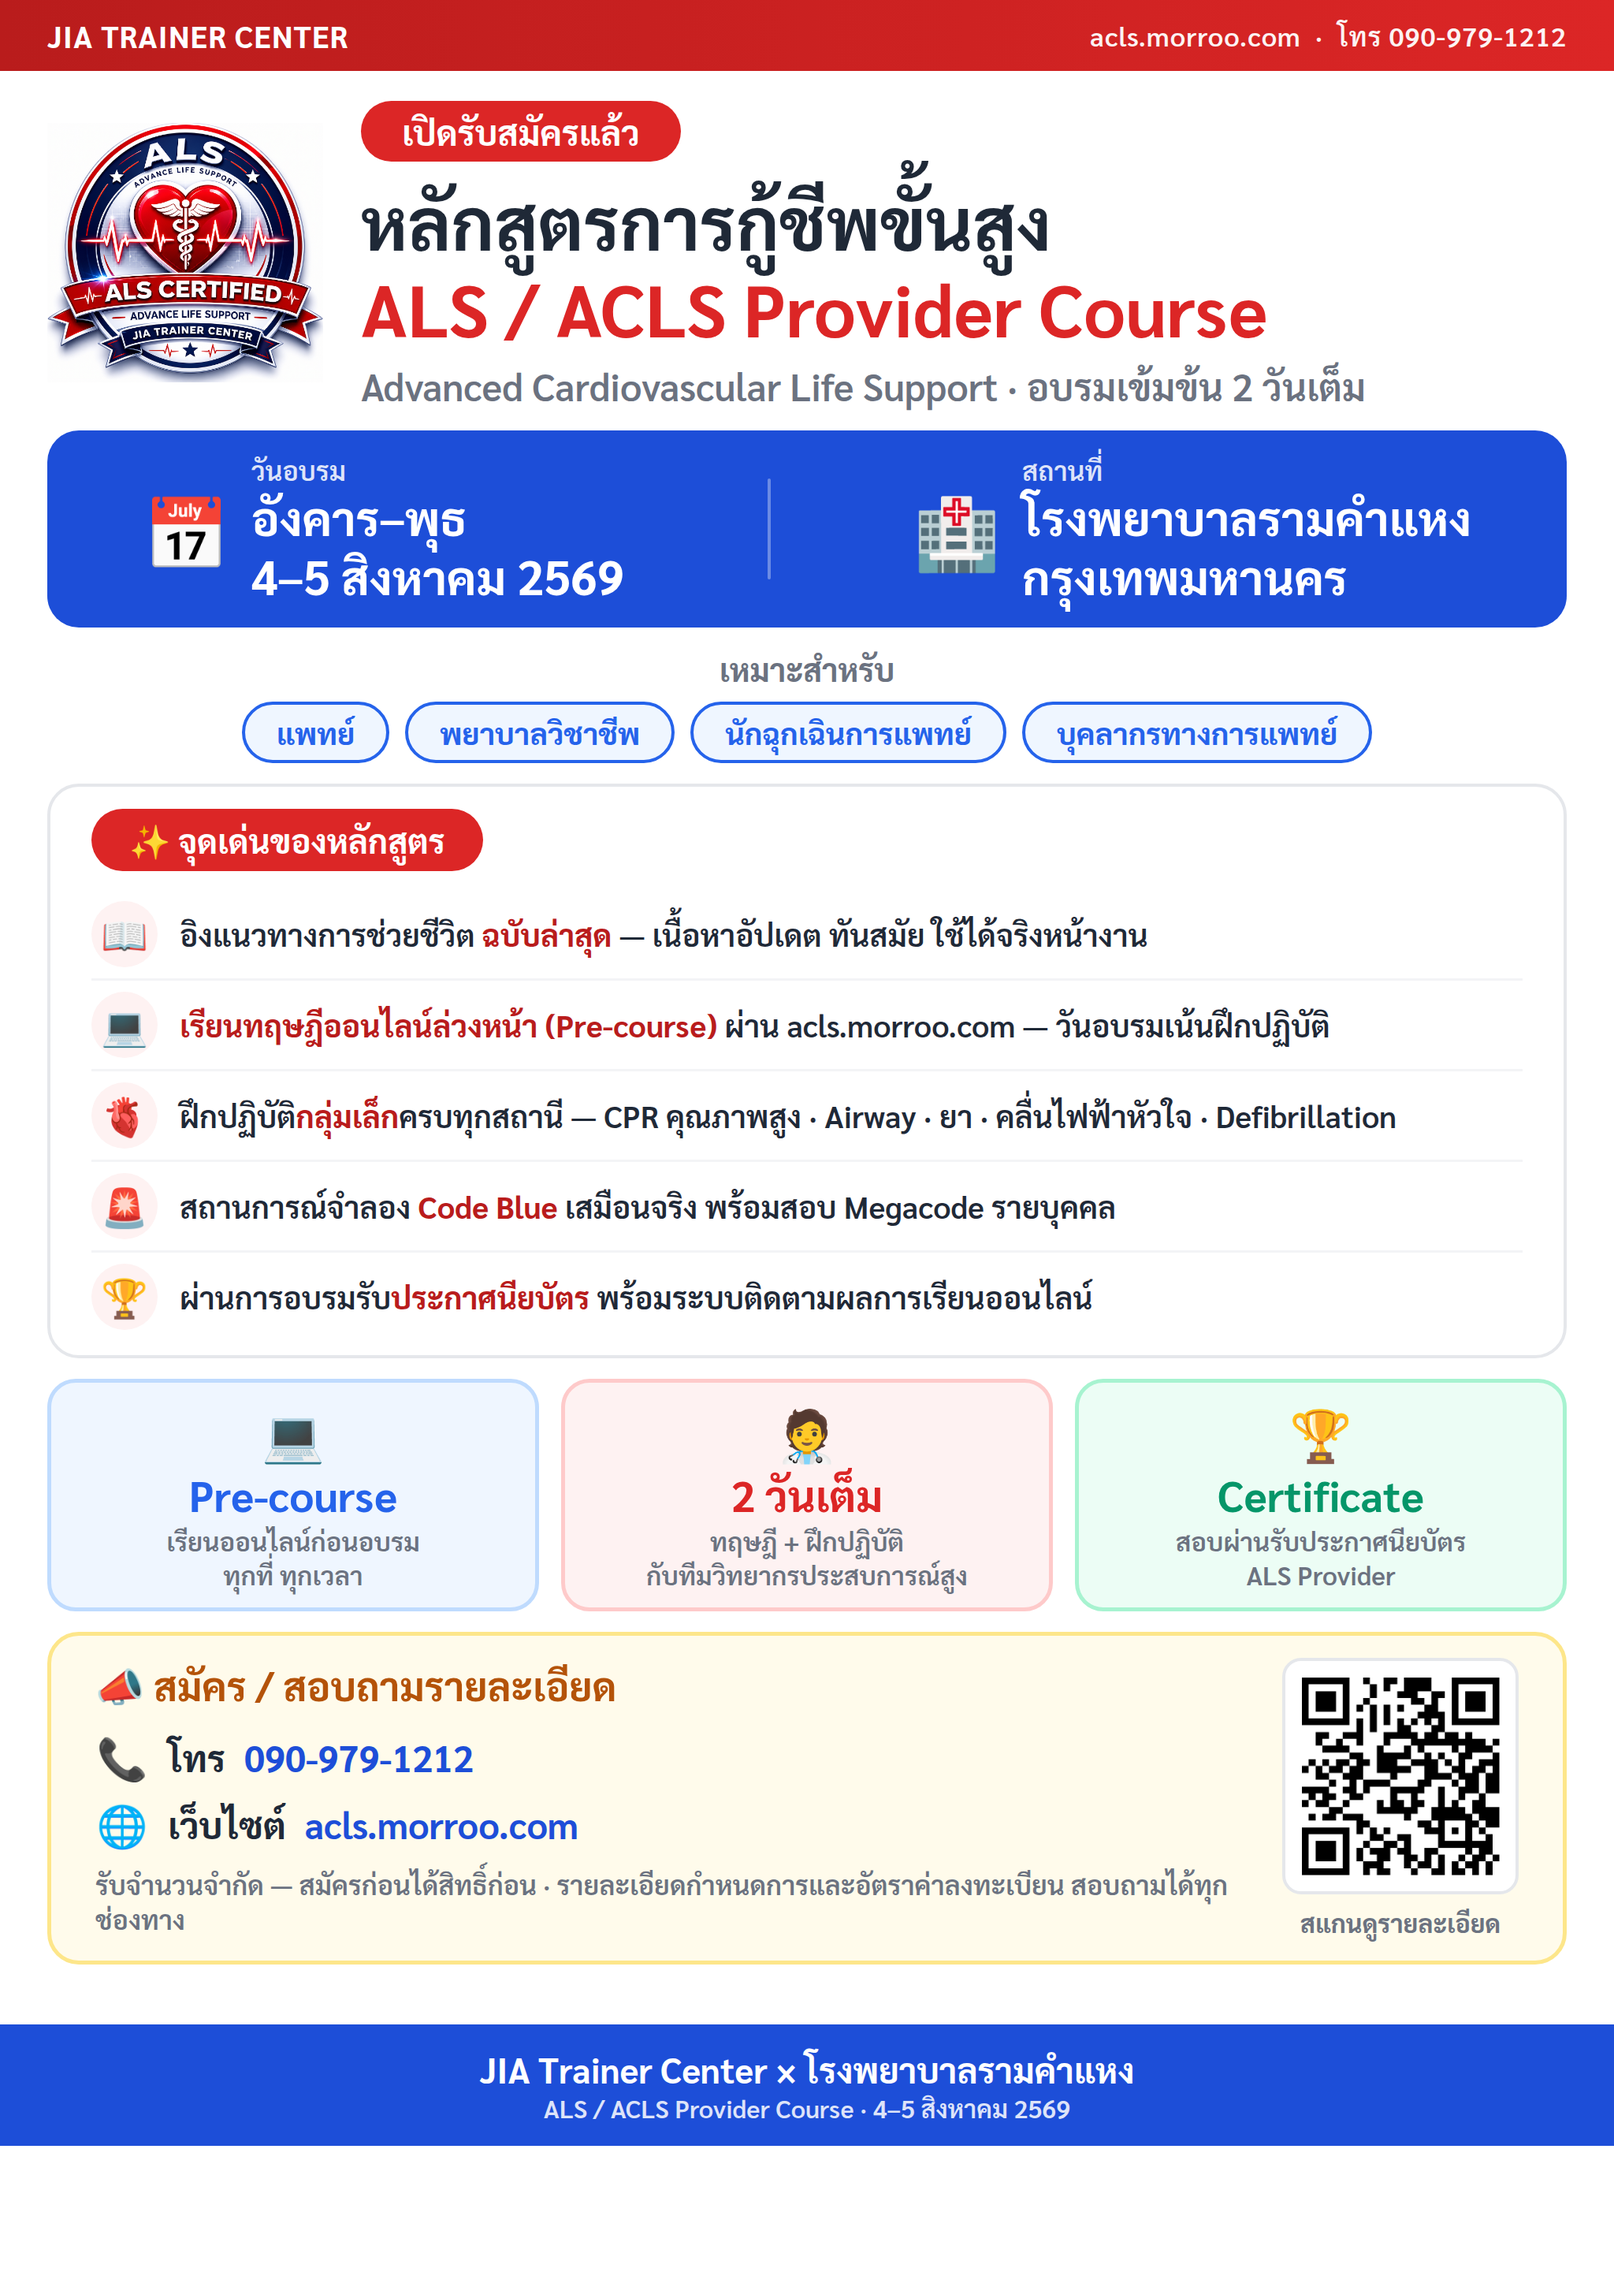
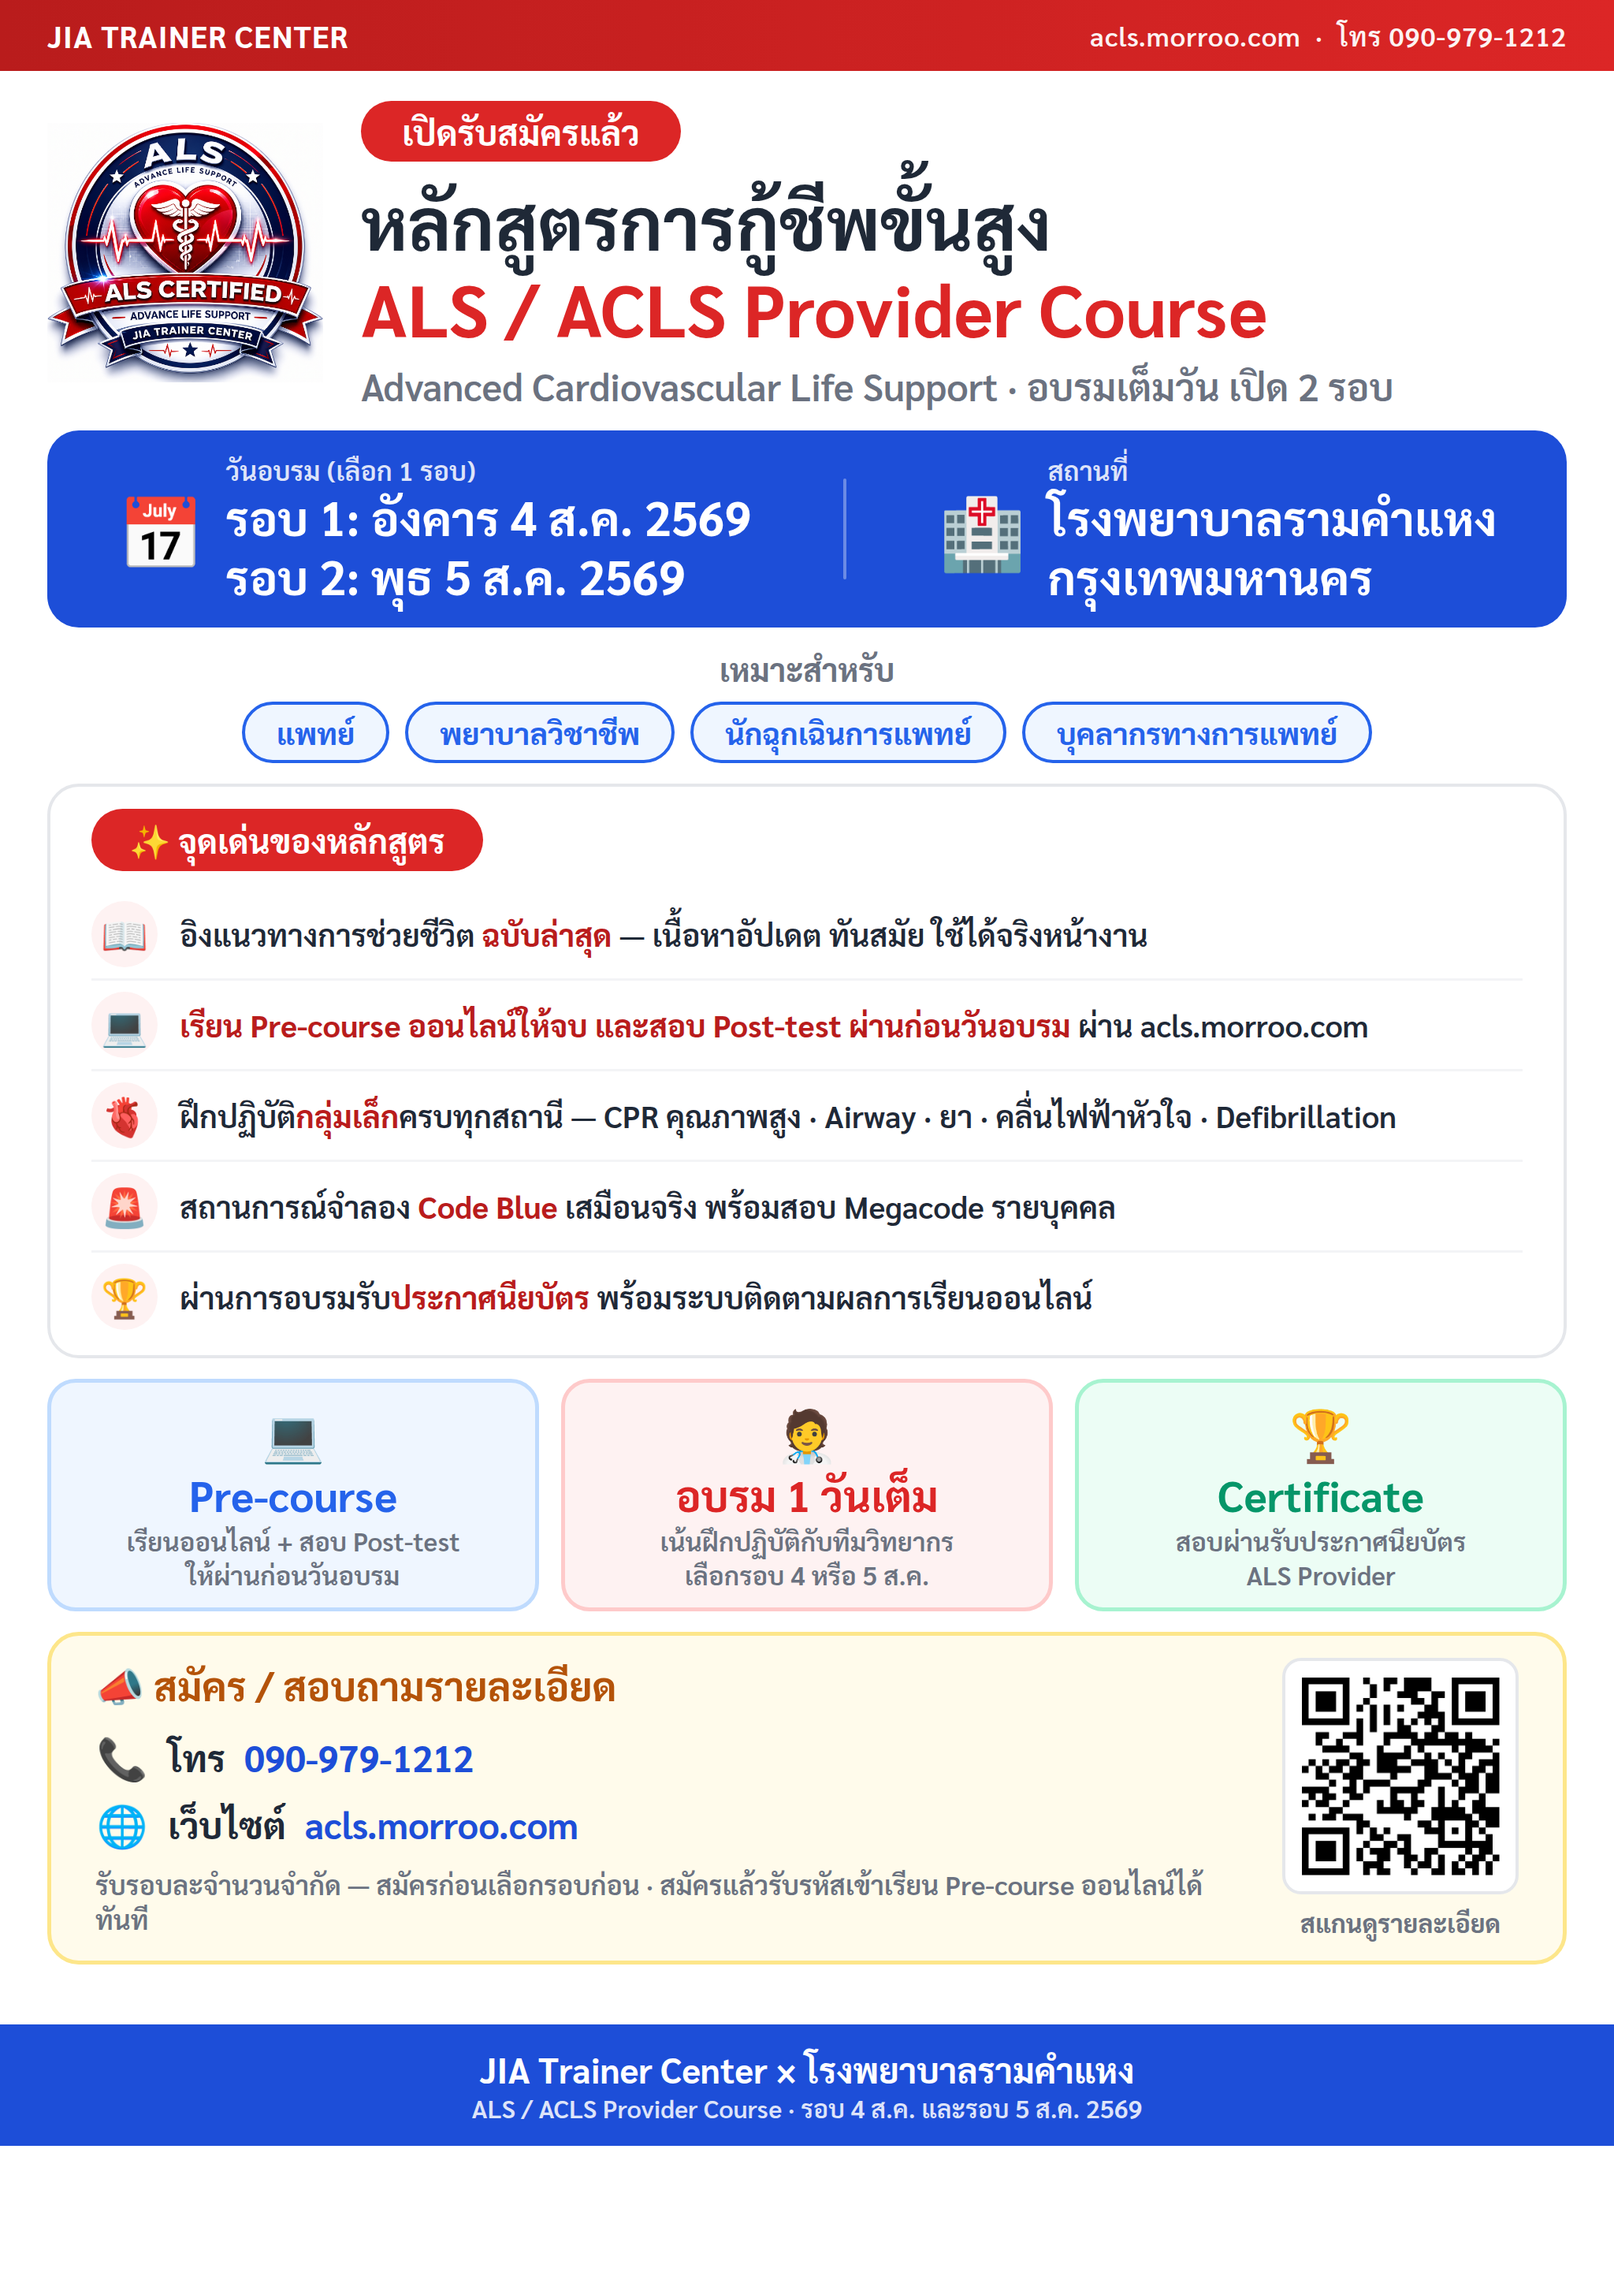
ปรับใบประชาสัมพันธ์: คอร์สเต็มวัน 2 รอบ (4 และ 5 ส.ค.) + เงื่อนไขสอบ Post-test ผ่านก่อนวันอบรม
Claude-Session: https://claude.ai/code/session_01PP82wRoh2LKPW8yRZzgFdj

diff --git a/docs/rama-acls-promo-2569.html b/docs/rama-acls-promo-2569.html
@@ -113,7 +113,7 @@
   <div class="header-right">
     <div class="open">เปิดรับสมัครแล้ว</div>
     <h1>หลักสูตรการกู้ชีพขั้นสูง<br><span class="red">ALS / ACLS Provider Course</span></h1>
-    <div class="subtitle">Advanced Cardiovascular Life Support · อบรมเข้มข้น 2 วันเต็ม</div>
+    <div class="subtitle">Advanced Cardiovascular Life Support · อบรมเต็มวัน เปิด 2 รอบ</div>
   </div>
 </div>
 
@@ -121,8 +121,8 @@
   <div class="item">
     <span class="em">📅</span>
     <div>
-      <div class="lbl">วันอบรม</div>
-      <div class="big">อังคาร–พุธ<br>4–5 สิงหาคม 2569</div>
+      <div class="lbl">วันอบรม (เลือก 1 รอบ)</div>
+      <div class="big">รอบ 1: อังคาร 4 ส.ค. 2569<br>รอบ 2: พุธ 5 ส.ค. 2569</div>
     </div>
   </div>
   <div class="divider"></div>
@@ -148,15 +148,15 @@
 <div class="high">
   <div class="h-title">✨ จุดเด่นของหลักสูตร</div>
   <div class="li"><span class="ic">📖</span><span>อิงแนวทางการช่วยชีวิต <b>ฉบับล่าสุด</b> — เนื้อหาอัปเดต ทันสมัย ใช้ได้จริงหน้างาน</span></div>
-  <div class="li"><span class="ic">💻</span><span><b>เรียนทฤษฎีออนไลน์ล่วงหน้า (Pre-course)</b> ผ่าน acls.morroo.com — วันอบรมเน้นฝึกปฏิบัติ</span></div>
+  <div class="li"><span class="ic">💻</span><span><b>เรียน Pre-course ออนไลน์ให้จบ และสอบ Post-test ผ่านก่อนวันอบรม</b> ผ่าน acls.morroo.com</span></div>
   <div class="li"><span class="ic">🫀</span><span>ฝึกปฏิบัติ<b>กลุ่มเล็ก</b>ครบทุกสถานี — CPR คุณภาพสูง · Airway · ยา · คลื่นไฟฟ้าหัวใจ · Defibrillation</span></div>
   <div class="li"><span class="ic">🚨</span><span>สถานการณ์จำลอง <b>Code Blue</b> เสมือนจริง พร้อมสอบ Megacode รายบุคคล</span></div>
   <div class="li"><span class="ic">🏆</span><span>ผ่านการอบรมรับ<b>ประกาศนียบัตร</b> พร้อมระบบติดตามผลการเรียนออนไลน์</span></div>
 </div>
 
 <div class="stats">
-  <div class="stat a"><div class="em">💻</div><div class="big">Pre-course</div><div class="sub">เรียนออนไลน์ก่อนอบรม<br>ทุกที่ ทุกเวลา</div></div>
-  <div class="stat b"><div class="em">🧑⚕</div><div class="big">2 วันเต็ม</div><div class="sub">ทฤษฎี + ฝึกปฏิบัติ<br>กับทีมวิทยากรประสบการณ์สูง</div></div>
+  <div class="stat a"><div class="em">💻</div><div class="big">Pre-course</div><div class="sub">เรียนออนไลน์ + สอบ Post-test<br>ให้ผ่านก่อนวันอบรม</div></div>
+  <div class="stat b"><div class="em">🧑⚕</div><div class="big">อบรม 1 วันเต็ม</div><div class="sub">เน้นฝึกปฏิบัติกับทีมวิทยากร<br>เลือกรอบ 4 หรือ 5 ส.ค.</div></div>
   <div class="stat c"><div class="em">🏆</div><div class="big">Certificate</div><div class="sub">สอบผ่านรับประกาศนียบัตร<br>ALS Provider</div></div>
 </div>
 
@@ -165,7 +165,7 @@
     <div class="c-title">📣 สมัคร / สอบถามรายละเอียด</div>
     <div class="row"><span class="em">📞</span><span>โทร</span><span class="val">090-979-1212</span></div>
     <div class="row"><span class="em">🌐</span><span>เว็บไซต์</span><span class="val">acls.morroo.com</span></div>
-    <div class="note">รับจำนวนจำกัด — สมัครก่อนได้สิทธิ์ก่อน · รายละเอียดกำหนดการและอัตราค่าลงทะเบียน สอบถามได้ทุกช่องทาง</div>
+    <div class="note">รับรอบละจำนวนจำกัด — สมัครก่อนเลือกรอบก่อน · สมัครแล้วรับรหัสเข้าเรียน Pre-course ออนไลน์ได้ทันที</div>
   </div>
   <div class="qr-wrap">
     <img src="rama-promo-qr.png" alt="QR: acls.morroo.com">
@@ -175,7 +175,7 @@
 
 <div class="footer">
   JIA Trainer Center × โรงพยาบาลรามคำแหง
-  <div class="sub">ALS / ACLS Provider Course · 4–5 สิงหาคม 2569</div>
+  <div class="sub">ALS / ACLS Provider Course · รอบ 4 ส.ค. และรอบ 5 ส.ค. 2569</div>
 </div>
 
 </body>
